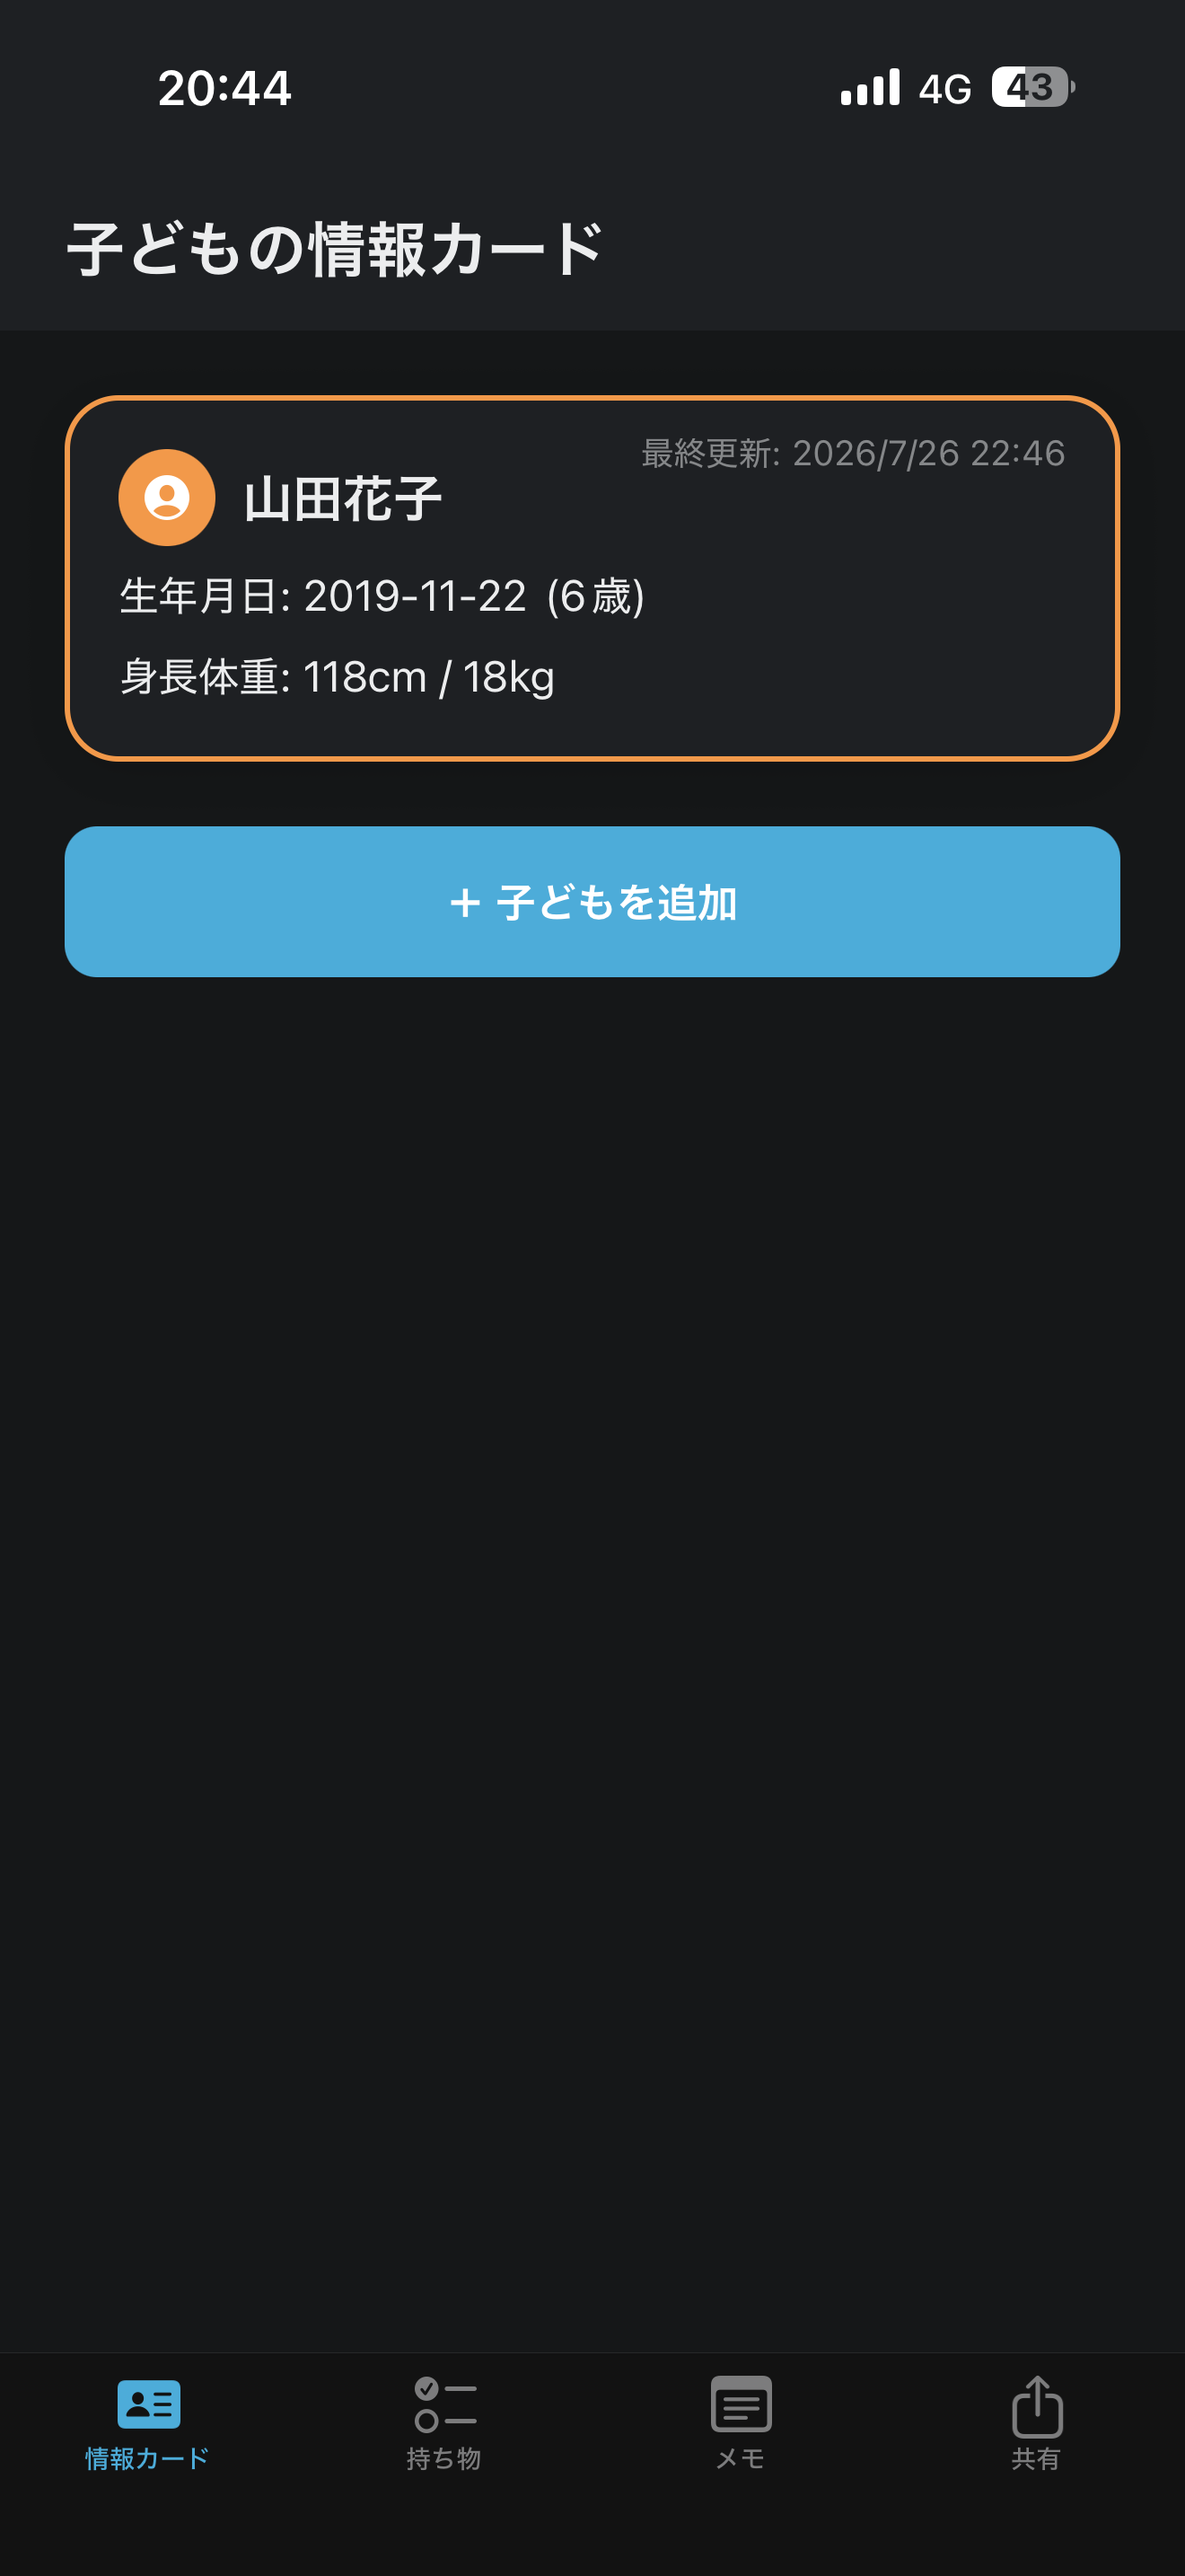
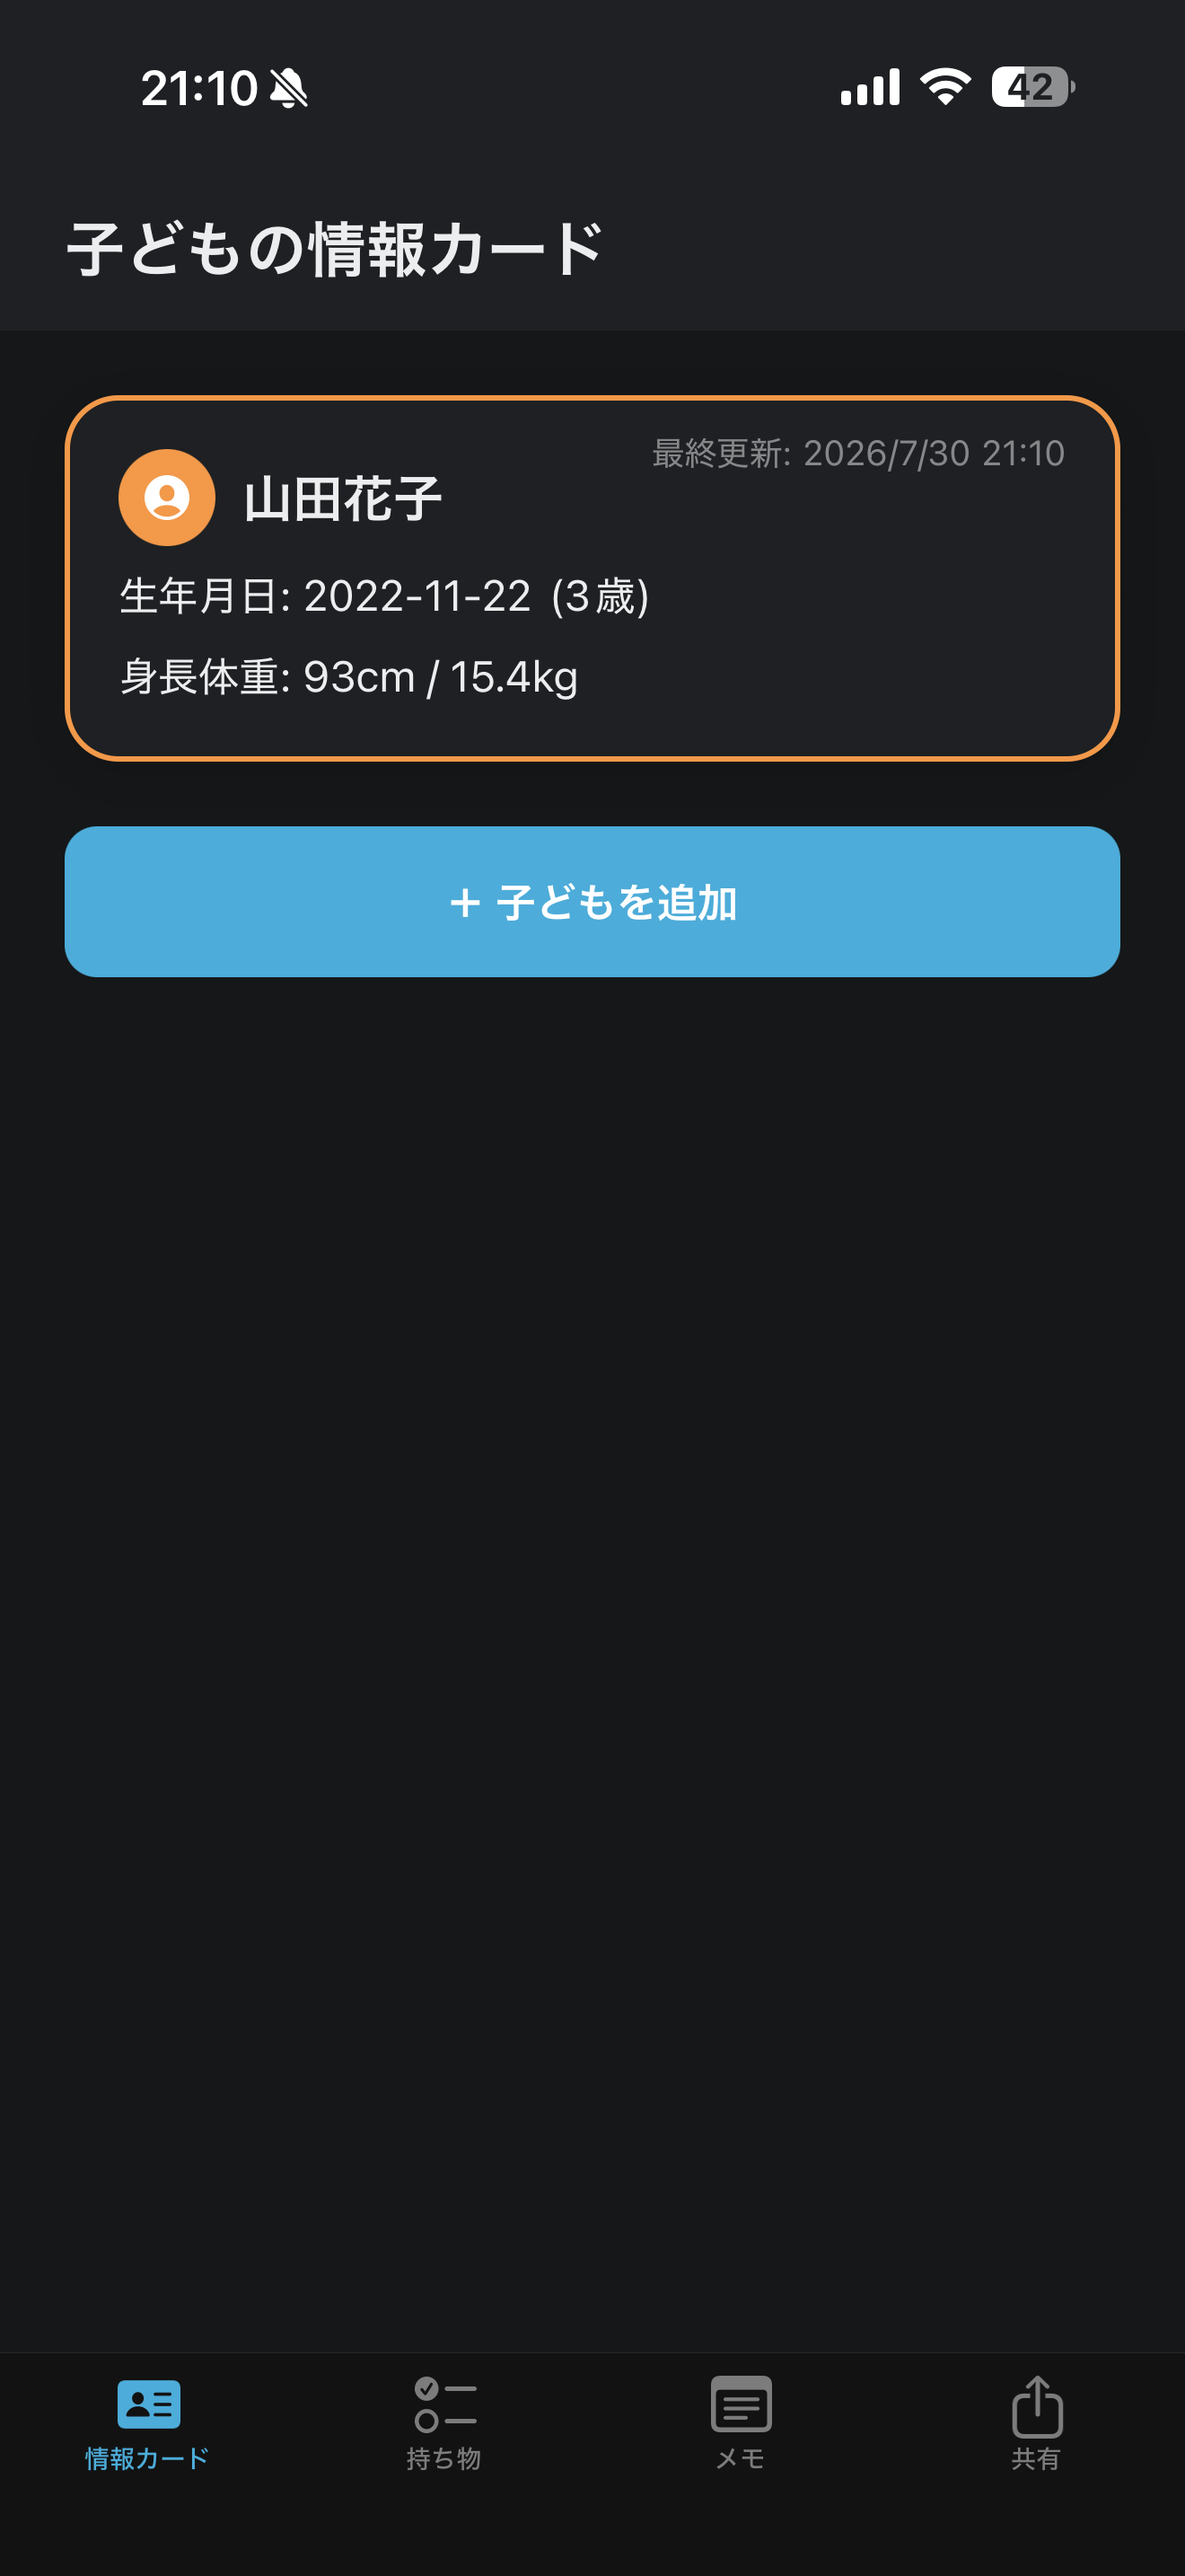
情報カードに詳細画面のスクショを追加、一覧画像を差し替え

diff --git a/home.html b/home.html
@@ -94,6 +94,15 @@
     margin-bottom: 16px;
     border: 1px solid var(--border);
   }
+  .feature-image-pair {
+    display: flex;
+    justify-content: center;
+    gap: 8px;
+  }
+  .feature-image-pair img {
+    max-width: 106px;
+    margin-bottom: 16px;
+  }
   .feature h3 {
     margin: 0 0 8px;
     font-size: 1.05rem;
@@ -186,7 +195,10 @@
       <h2>できること</h2>
       <div class="features">
         <div class="feature">
-          <img src="screenshots/screen-card.png" alt="子どもの情報カード画面">
+          <div class="feature-image-pair">
+            <img src="screenshots/screen-card.png" alt="子どもの情報カード一覧画面">
+            <img src="screenshots/screen-card-detail.png" alt="子どもの情報カード詳細画面">
+          </div>
           <h3>情報カード</h3>
           <p>血液型・アレルギー・服薬・かかりつけ病院などを事前登録し、ワンタップで一覧表示。</p>
         </div>
